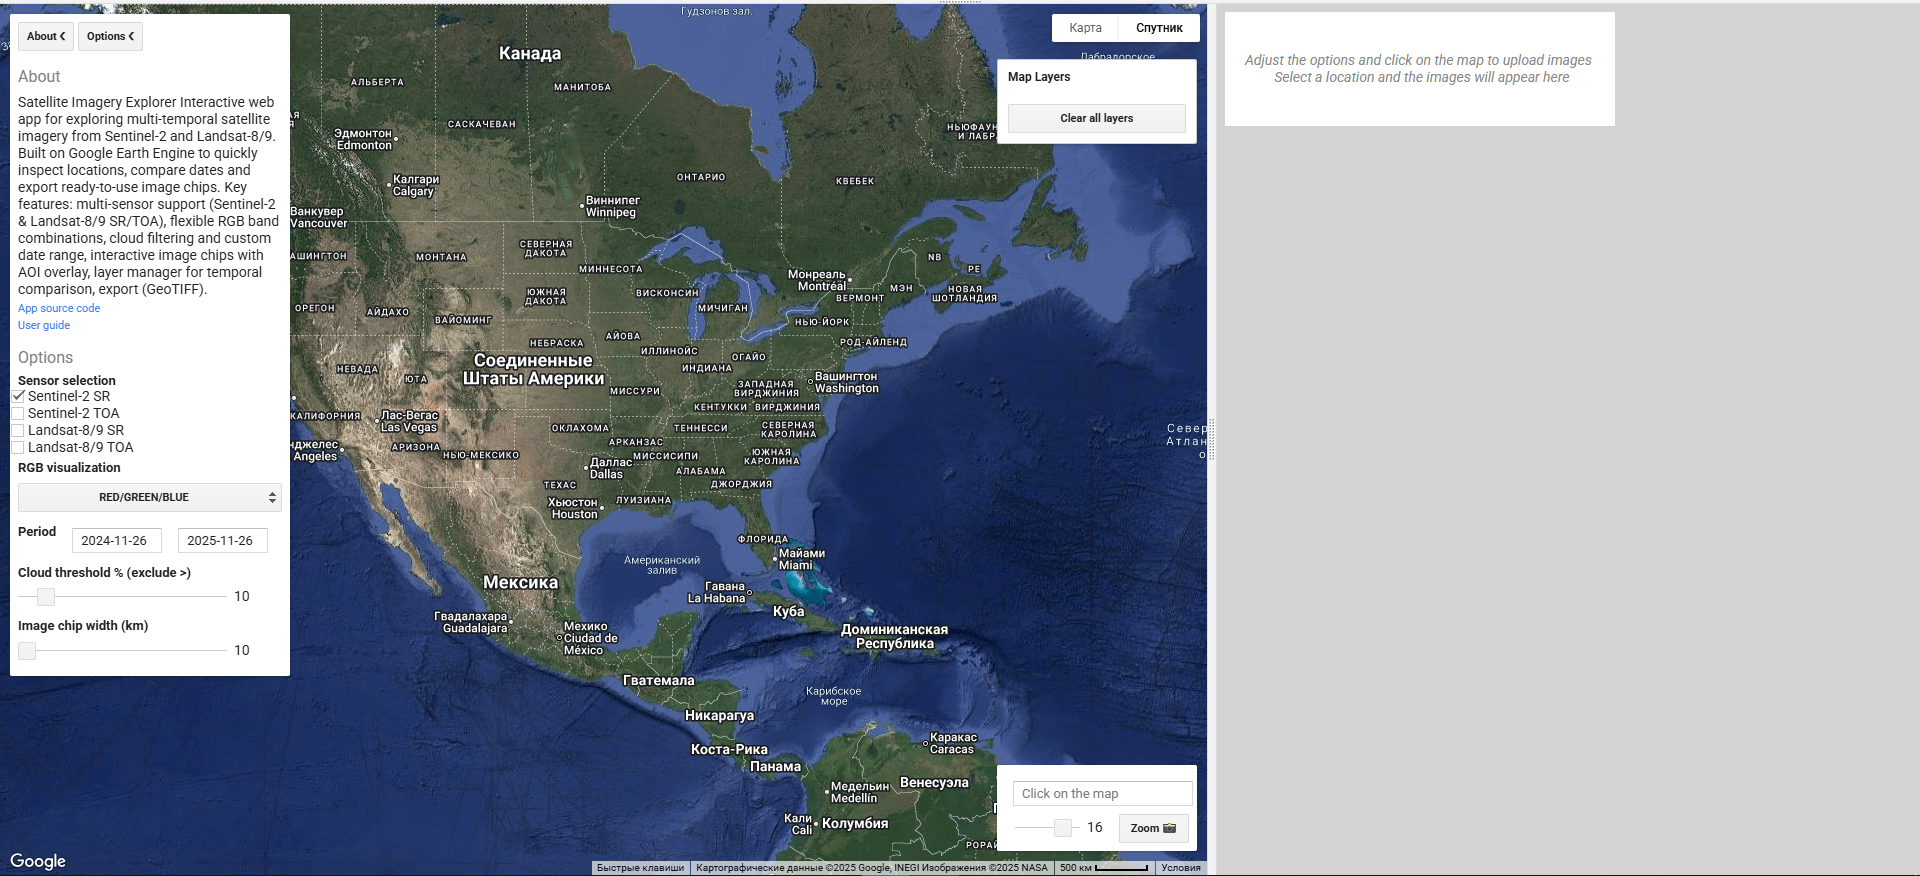
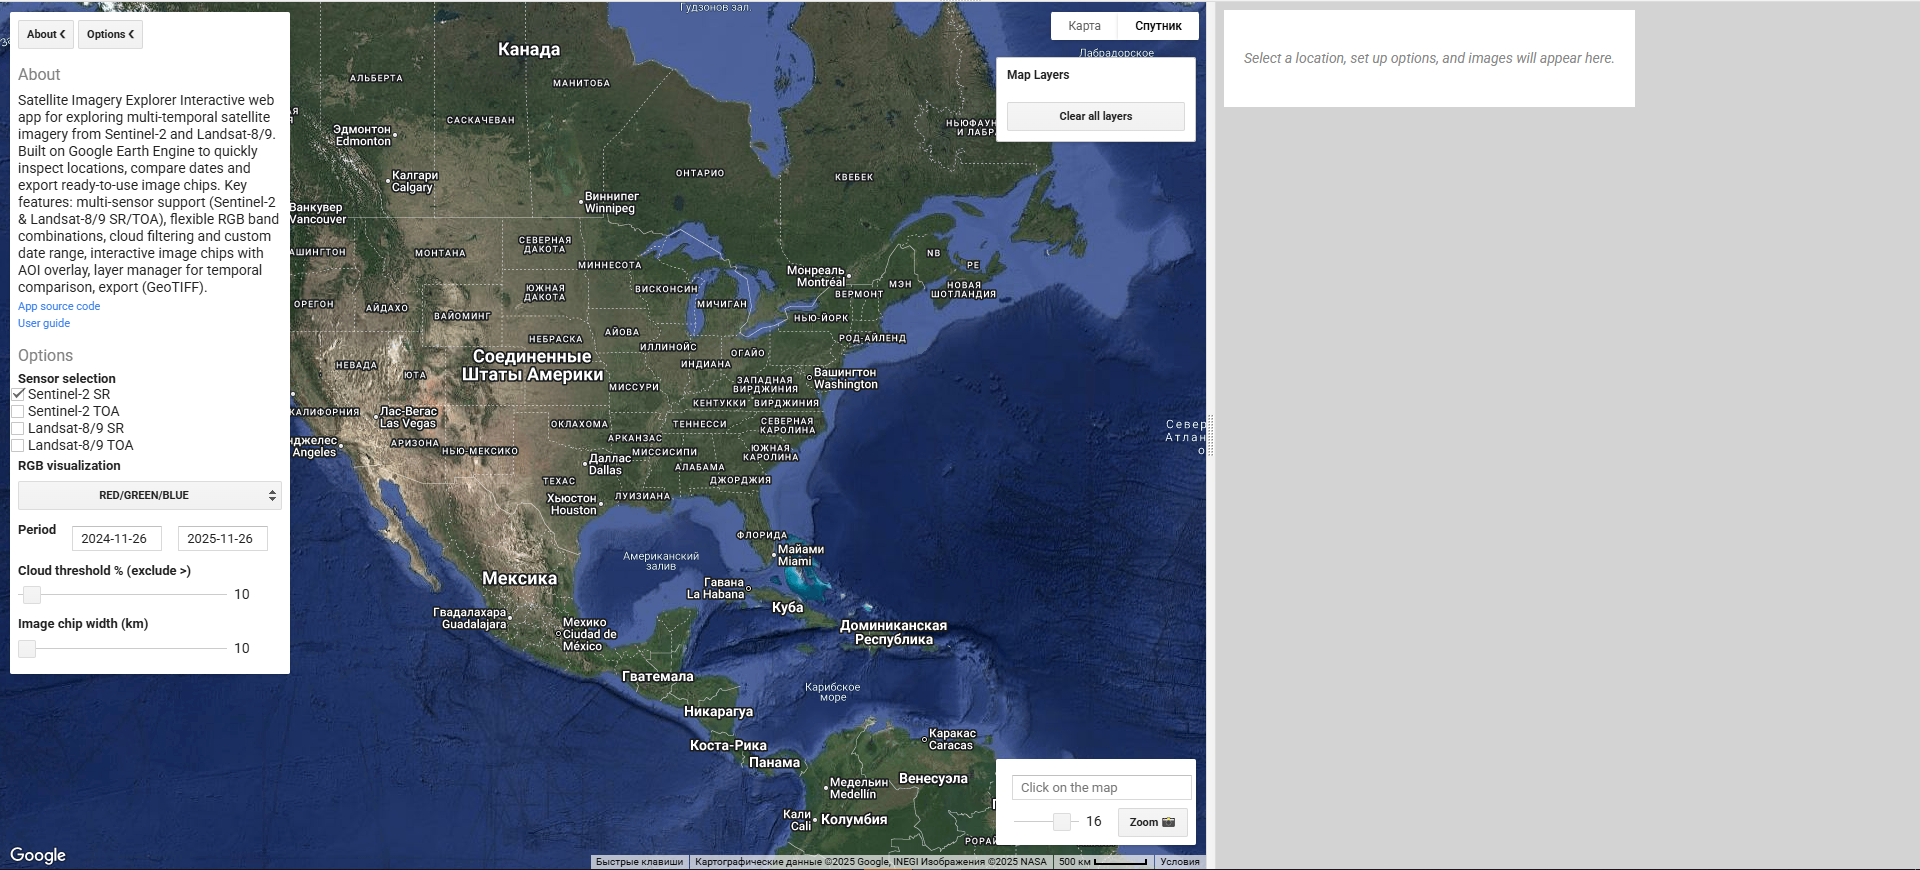
*_*

diff --git a/MIIGAiK-TerraFrame.js b/MIIGAiK-TerraFrame.js
@@ -224,7 +224,7 @@ var imgCardPanel = ui.Panel({
 });
 
 var emptyImagePanelLabel = ui.Label({
-    value: 'Adjust the options and click on the map to upload images \n Select a location and the images will appear here',
+    value: 'Select a location, set up options, and images will appear here.',
     style: {
         fontSize: '14px',
         color: '#888',
@@ -672,23 +672,27 @@ function addLayerToMap(imageData, aoiBox, cardCheckbox) {
     var layers = map.layers();
     var layer = layers.get(layers.length() - 1);
 
-    // Создаем чекбокс для управления видимостью слоя
-    var layerCheckbox = ui.Checkbox({
-        label: date + ' (' + shortenSensorName(sensorName) + ')',
-        value: true,
-        style: {margin: '2px 0px', fontSize: '12px'}
-    });
-
     // Кнопка удаления слоя — яркий крестик, всегда видимый
     var removeButton = ui.Button({
         label: 'X',
         style: {
-            width: '20px',
-            height: '20px',
+            width: '24px',
+            height: '24px',
             padding: '0px',
-            fontSize: '11px',
-            margin: '0 0 0 5px',
+            fontSize: '12px',
+            margin: '0 0 0 8px',
+            backgroundColor: '#ff4444',
+            color: 'white',
+            fontWeight: 'bold',
+            border: '2px solid #cc0000'
         }
+    });
+
+    // Чекбокс для управления видимостью
+    var layerCheckbox = ui.Checkbox({
+        label: date + ' (' + shortenSensorName(sensorName) + ')',
+        value: true,
+        style: {margin: '2px 0px', fontSize: '12px',}
     });
 
     // Панель для элемента слоя
@@ -696,19 +700,21 @@ function addLayerToMap(imageData, aoiBox, cardCheckbox) {
         widgets: [layerCheckbox, removeButton],
         layout: ui.Panel.Layout.flow('horizontal'),
         style: {
-            padding: '2px 5px',
-            backgroundColor: '#f5f5f5',
-            margin: '1px 0px',
+            padding: '6px 8px',
+            backgroundColor: '#f8f8f8',
+            margin: '3px 0px',
+            border: '1px solid #ddd',
+            borderRadius: '4px'
         }
     });
 
-    // Сохраняем информацию о слое (теперь храним изображение и параметры для повторного добавления)
+    // Сохраняем информацию о слое
     mapLayers[layerId] = {
         layer: layer,
         image: visualizedImage,
         visParams: {},
         checkbox: layerCheckbox,
-        cardCheckbox: cardCheckbox, // Сохраняем ссылку на чекбокс карточки
+        cardCheckbox: cardCheckbox,
         visible: true,
         layerItem: layerItemPanel,
         layerId: layerId
@@ -1015,8 +1021,7 @@ function renderGraphics(coords) {
 }
 
 /**
- * Обработчик клика по карте: запоминаем координаты, обновляем URL и триггерит отрисовку нового результата.
- * @param {Object} coords - Объект с {lon, lat}
+ * Обработчик клика по карте: запоминаем координаты, обновляем URL и перерисовываем.
  */
 function handleMapClick(coords) {
     CLICKED = true;
@@ -1032,7 +1037,7 @@ function handleMapClick(coords) {
 }
 
 /**
- * Обработчик кнопки «Submit changes»: перерисовывает изменённые данные, скрывает кнопку после применения.
+ * Обработчик кнопки «Submit changes»: перерисовываем чипы и скрываем кнопку.
  */
 function handleSubmitClick() {
     renderGraphics(COORDS);

diff --git a/USER_GUIDE.md b/USER_GUIDE.md
@@ -7,7 +7,7 @@
 
 ### Перейдите в Демо
 <p align="center">
-  <a href="https://code.earthengine.google.com/70a1856be8f6440264872e7d8a95d355?hideCode=true" target="_blank" style="text-decoration:none;">
+  <a href="https://code.earthengine.google.com/8a674e39f4ffed55293b818da1f857bd?hideCode=true#run=true;sensor=Sentinel-2%20SR;lon=-81.53300781250002;lat=36.44311350012563;rgb=RED/GREEN/BLUE;cloud=10;zzz=10;chipwidth=10;" target="_blank" style="text-decoration:none;">
     <img src="https://img.shields.io/badge/▶%20Открыть%20демо%20в%20Earth%20Engine-1a73e8?style=for-the-badge&logo=googleearth&logoColor=white" alt="Демо Google Earth Engine" />
   </a>
   <br/>
